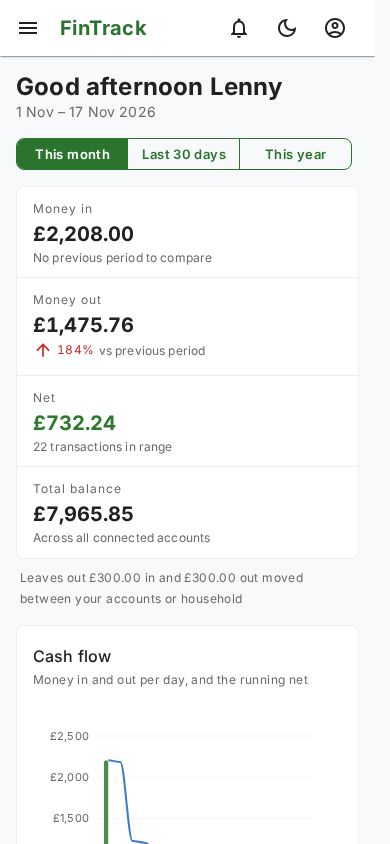
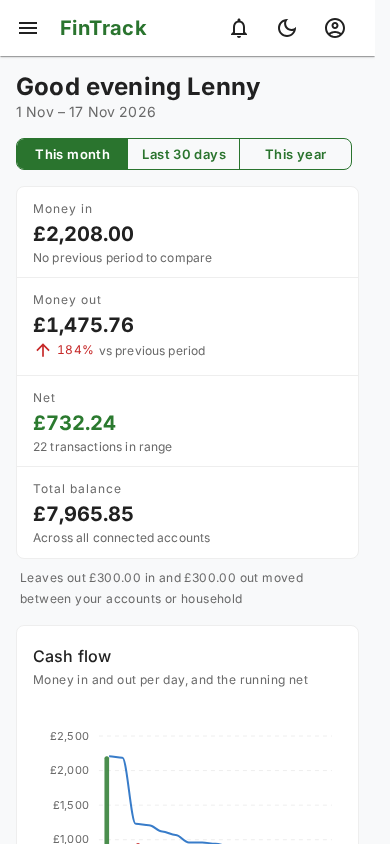
chart label update

diff --git a/Src/FinanceTracker.Client/Components/Common/ChartDefaults.cs b/Src/FinanceTracker.Client/Components/Common/ChartDefaults.cs
@@ -16,6 +16,17 @@ public static class ChartDefaults
     public const int PhoneBreakpoint = 600;
 
     /// <summary>
+    /// A date axis on a phone, at most <paramref name="tickAmount"/> ticks. Its labels tilt when they'd overlap, as
+    /// dates like <c>17 Nov 26</c> don't fit side by side at a phone's width. Wider screens keep them flat.
+    /// </summary>
+    /// <param name="tickAmount">The most ticks to show.</param>
+    public static XAxis PhoneXAxis(int tickAmount) => new()
+    {
+        TickAmount = tickAmount,
+        Labels = new XAxisLabels { Rotate = -45, HideOverlappingLabels = true }
+    };
+
+    /// <summary>
     /// Options for a money chart, re-create them when <paramref name="isDarkMode"/> changes.
     /// </summary>
     public static ApexChartOptions<T> Create<T>(bool isDarkMode) where T : class => new()
